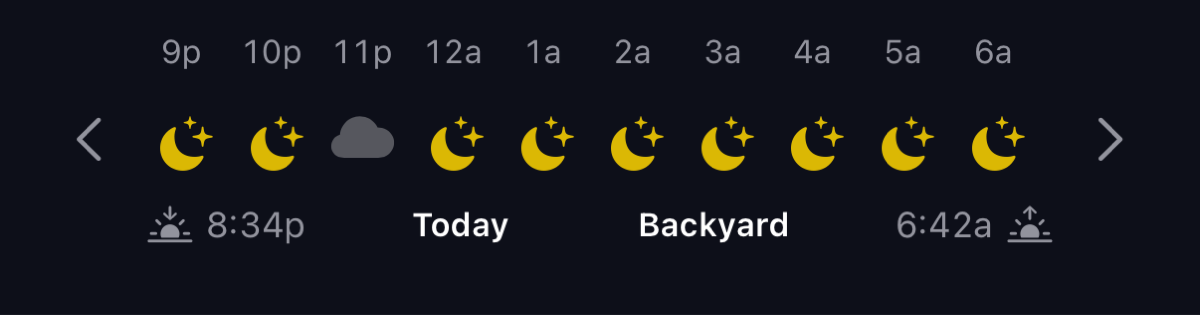
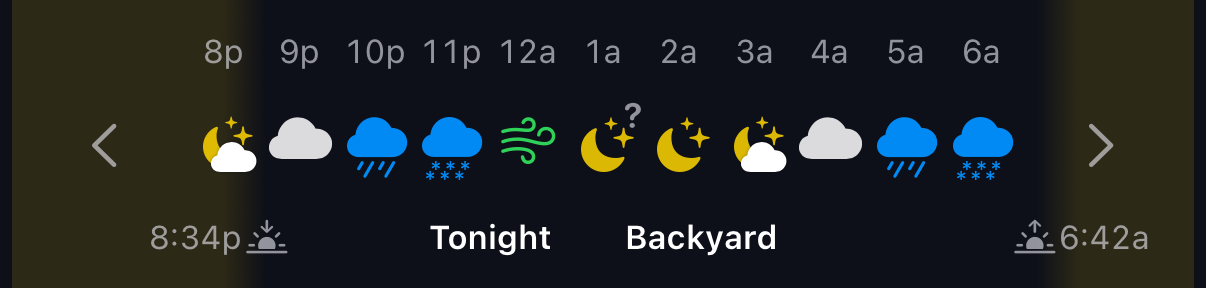
Sky docs: cover 1.8 — widgets, multi-model weather, wind, Times
- Weather strip: note the six-model consensus, the '?' uncertainty
  marker, the green wind glyph, the current-time line, twilight glow,
  and two-hour winter buckets. Refreshed screenshot.
- New Widgets section (Tonight's Weather + Tonight's Verdict) with a
  home-screen image.
- Settings: new Weather subsection (precip/wind/cloud thresholds) with
  a screenshot; add Times (device vs site clock); drop the removed
  Comets magnitude-threshold setting.
- Refresh the toolbar screenshot for the split Liquid Glass capsules.

diff --git a/docs/en/sky.md b/docs/en/sky.md
@@ -16,11 +16,15 @@ beside the chart instead of a sheet.
 
 ## Weather strip
 
-![Weather strip showing a clear night hour by hour, with sunset and sunrise times](images/sky/weather-strip.png)
+![Weather strip showing a clear night hour by hour, with a green wind glyph, an uncertainty marker, the current-time line, and sunset and sunrise times](images/sky/weather-strip.png)
 
 The strip across the top is tonight's forecast, one icon per hour
 from sunset to sunrise — a moon for clear hours, clouds, rain, or
-snow otherwise.  Most of it is tappable:
+snow otherwise.  A soft glow marks the hours around sunset and
+sunrise, a thin line tracks the current time as it crosses, and a
+green wind glyph flags any hour with gear-threatening wind.  On long
+winter nights the strip folds into tidy two-hour steps so nothing
+crowds.  Most of it is tappable:
 
 - **Tap any hour** for the details behind the icon: cloud cover,
   precipitation, wind, temperature, dew point, and humidity.
@@ -30,8 +34,12 @@ snow otherwise.  Most of it is tappable:
   date.
 - **Tap the site name** to open Settings and switch sites.
 
-Forecasts come from Open-Meteo and are cached, so a brief network
-outage shows the last known forecast rather than nothing.
+Each hour blends six global weather models — Europe's ECMWF, NOAA's
+GFS, and the German, Canadian, and UK models among them — into one
+consensus that's steadier than any single model.  When the models
+disagree about an hour, the strip marks it with a small **?** and
+leans the icon toward clear.  Forecasts are cached, so a brief
+network outage shows the last known forecast rather than nothing.
 
 ## Sky chart
 
@@ -136,6 +144,25 @@ A few of those previews, worth seeking out:
 
 ![Top-down comet orbit map showing the Sun, Earth's orbit, the comet with its tail, distances, and the perihelion date](images/sky/comet-orbit.png "A comet's orbit from above — Sun, Earth's orbit, distances, and days to perihelion")
 
+## Widgets
+
+![Two home-screen widgets: a small Tonight's Verdict reading Clear tonight, 6h clear, beside a medium Tonight's Weather showing the hour-by-hour strip with the current-time line](images/sky/widgets.png)
+
+Put tonight's plan on your home or lock screen.  Add one the usual
+way — long-press the home screen, tap **+**, and search for
+**AstroPup Sky**:
+
+- **Tonight's Weather** mirrors the in-app strip — the cloud
+  forecast across tonight's observing window, current-time line and
+  all.
+- **Tonight's Verdict** is the one-glance call: clear, mixed, or
+  cloudy, with the headline and how long the clear stretch lasts.
+
+Both come in home-screen and lock-screen sizes, each can be pinned
+to a specific site (or follow your active one), and tapping either
+opens Sky to that night.  They refresh in the background and
+whenever you open the app.
+
 ## Settings
 
 ### Sites
@@ -159,16 +186,30 @@ looks clear at that site.  Notifications and Background App Refresh
 must be allowed, and forecasts stay fresh as long as you open the
 app every week or so; Sky reminds you if they go stale.
 
+### Weather
+
+![Weather settings: precipitation, wind, and cloud-cover thresholds, each a slider](images/sky/settings-weather.png)
+
+Three sliders set what *you* count as a no-go.  They color the
+weather strip and drive the clear-sky verdict and its alerts:
+
+- **Precipitation** and **Wind** — the rain chance and wind speed
+  past which an hour counts as poor.  Windy hours also flag a green
+  glyph on the strip and can trigger a "Windy tonight" alert.
+- **Clouds** — the band from "clear enough" to "too cloudy," so
+  partly-cloudy hours read as borderline rather than all-or-nothing.
+
+Clear-sky alerts are switched on per site (above); here you also
+pick the delivery hour.
+
 ### Everything else
 
-- **Clear sky notifications** — choose the delivery hour and how
-  much cloud cover still counts as "clear."
 - **Field of View** — save a preset per telescope or lens; the
   active one draws on the chart, and tapping the blue rectangle
   cycles through them.
-- **Comets** — comets brighter than the magnitude threshold appear
-  automatically; the catalog updates weekly from the Minor Planet
-  Center, with a manual refresh button.
+- **Times** — show every clock readout in your device's time or the
+  selected site's local time — handy when you're planning a night at
+  a site in another time zone.
 - **Chart** — shading opacity, color scheme, grid style, and a
   minimum-altitude floor for sites without a captured horizon.
 - **Night definition** — which twilight bounds the dark window,
